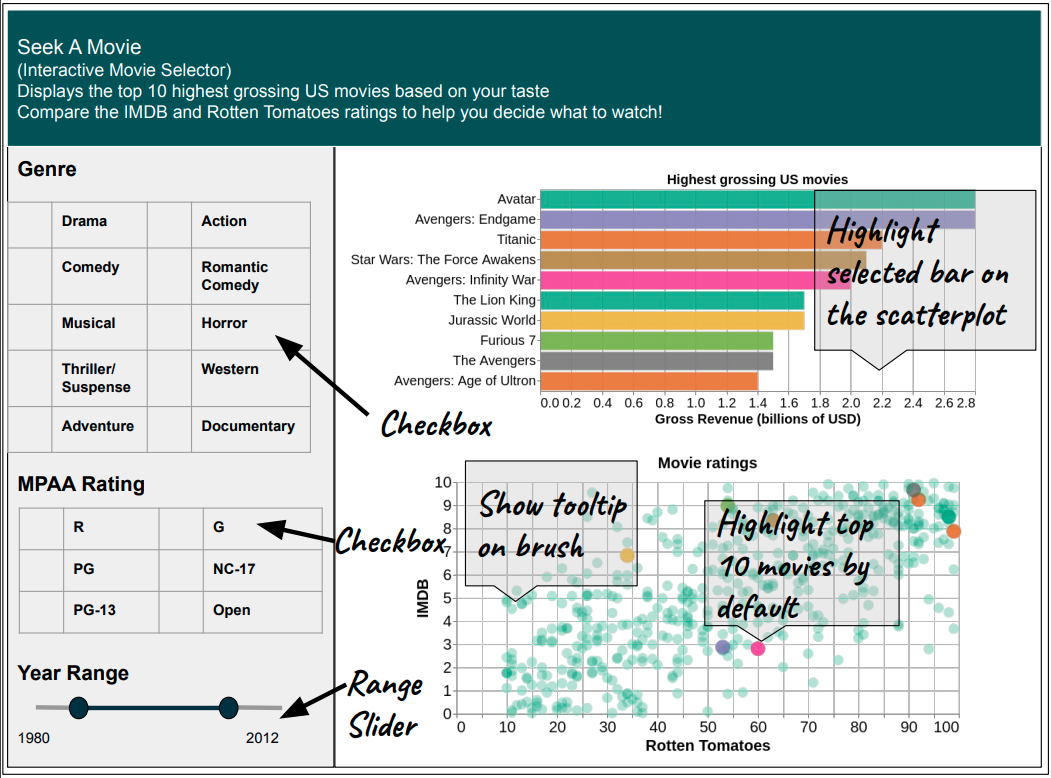
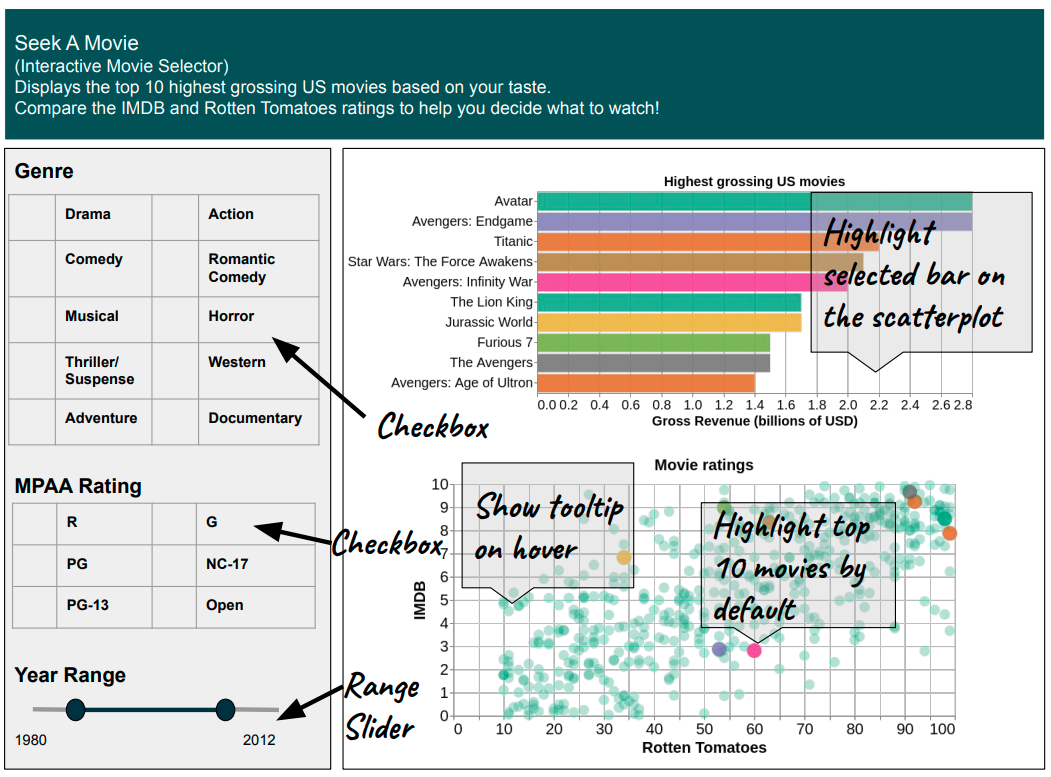
updated the sketch with suggested comments, added description

Changed region(s): [[0.0, 0.0, 1.0, 1.0]]

diff --git a/README.md b/README.md
@@ -1,8 +1,10 @@
 # DSCI_532_group_205
 Movies Dashboard in Python  
 
-
 ## Description of the app
+The `Seek A Movie` is a web application designed to help users select top grossing US movies to watch based on their preferences. Using the graphical user interphase on the left, the user can select various options to filter movies and the app will select the best movies to watch based on total gross revenue. The first component is a checkbox that allows the user to select one or more of the different genres available. The second component is also a checkbox that can be used to select the various MPAA ratings. The final component is a range slider that can be used to select a range of release years for the movie.   
+
+Based on the selection made by the user, the app will find the top 10 grossing US movies and display them on a bar chart. The scatterplot in the bottom will show the IMDB and Rotten Tomatoes ratings of all movies in the database. By default, the top 10 movies will be highlighted in the scatterplot with matching colors from the bar graph. When the user clicks on a particular movie on the bar chart, only that movie will be highlighted in the scatterplot. The scatterplot will be interactive with options to zoom and pan. When the mouse pointer hovers over the points in the scatterplot, the tooltip would display the movie name and ratings.     
 
 ## Sketch of the app
 !["sketch"](img/app_sketch.png) 
